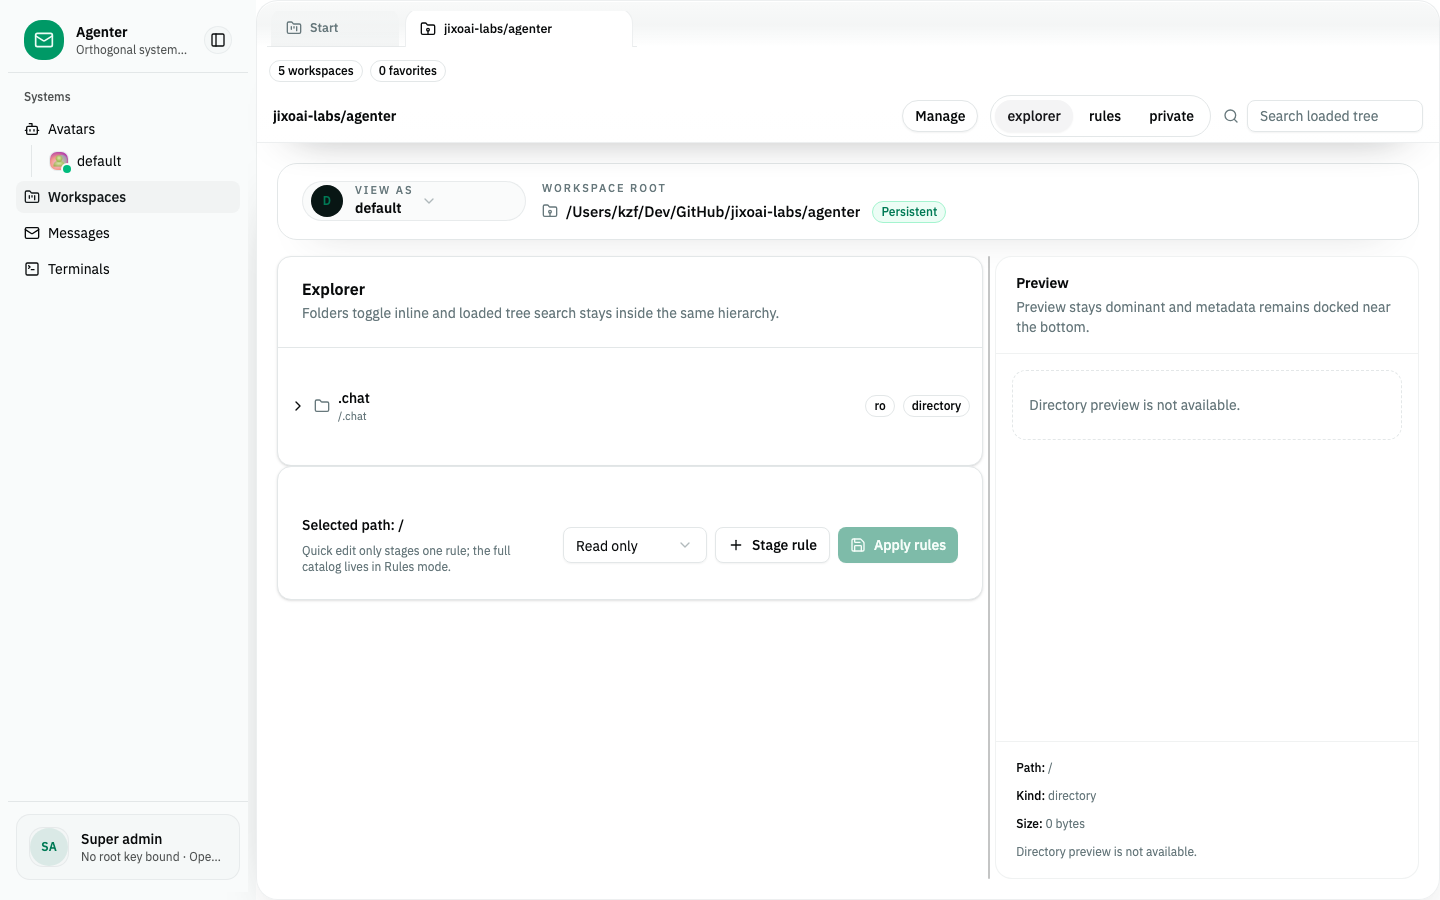
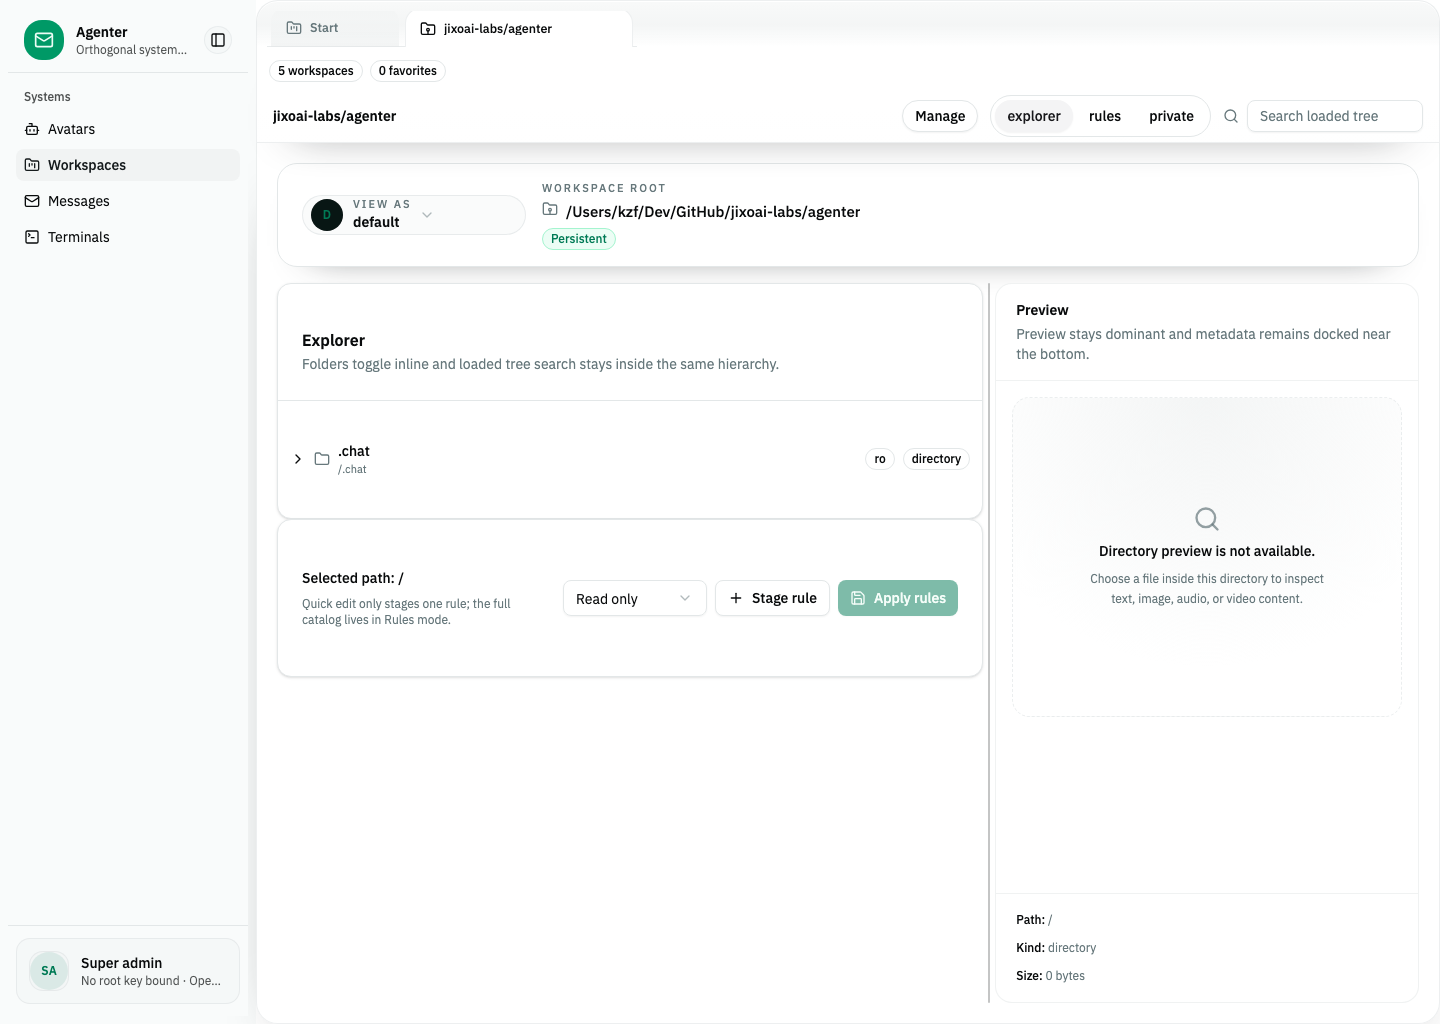
fix(webui): tighten workspace detail mobile density

diff --git a/packages/webui/src/lib/features/workspaces/workspaces-route.svelte b/packages/webui/src/lib/features/workspaces/workspaces-route.svelte
@@ -667,7 +667,7 @@
 </script>
 
 <WorkbenchPageToolbar>
-	<div class="flex h-full items-center justify-end gap-3 px-3 md:px-4">
+	<div class="flex h-full items-center justify-end gap-2.5 px-3 md:gap-3 md:px-4">
 		<div class="hidden min-w-0 flex-1 md:block">
 			<div class="truncate text-sm font-semibold">{selectedWorkspace ? describeCompactWorkspace(selectedWorkspace.path) : 'Workspaces'}</div>
 		</div>
@@ -751,7 +751,7 @@
 <div
 	class={cn(
 		'grid h-full grid-rows-[auto_minmax(0,1fr)] md:gap-4 md:p-5',
-		hideCompactContentHeader ? 'gap-0 p-0' : 'gap-4 p-4',
+		hideCompactContentHeader ? 'gap-0 p-0' : 'gap-3 px-3 pb-3 pt-3 md:gap-4 md:p-5',
 	)}
 	style="min-block-size: 0;"
 	data-testid="workspaces-route"
@@ -806,9 +806,9 @@
 	>
 		{#snippet main()}
 			<Card.Root class="h-full">
-				<Card.Header class="border-b">
+				<Card.Header class="gap-1 border-b px-4 py-4 pb-4 md:px-6 md:py-6 md:pb-6">
 					<Card.Title>{mode === 'rules' ? 'Rules' : mode === 'private' ? 'Private assets' : 'Explorer'}</Card.Title>
-					<Card.Description>
+					<Card.Description class="hidden max-w-[32rem] leading-6 md:block">
 						{#if mode === 'rules'}
 							Rule order maps directly to runtime grant priority for the selected avatar lens.
 						{:else if mode === 'private'}
@@ -893,7 +893,7 @@
 
 		{#snippet bottom()}
 			<Card.Root>
-				<Card.Content class="grid gap-4 pt-6 lg:grid-cols-[minmax(0,1fr)_auto] lg:items-center">
+				<Card.Content class="grid gap-3 px-4 pb-4 pt-4 md:gap-4 md:px-6 md:pb-6 md:pt-6 lg:grid-cols-[minmax(0,1fr)_auto] lg:items-center">
 					{#if mode === 'rules'}
 						<div class="grid gap-3 md:grid-cols-3">
 							<Input
@@ -981,19 +981,19 @@
 							{/if}
 						</div>
 					{:else}
-						<div class="grid gap-2.5 md:hidden">
-							<div class="grid gap-0.5">
-								<div class="truncate text-sm font-medium">
+						<div class="grid gap-2 md:hidden">
+							<div class="min-w-0 truncate text-sm font-medium" title={selectedExplorerPath ?? ''}>
 									{selectedExplorerPath ?? 'Select one path to stage a quick rule.'}
-								</div>
-								<div class="text-[11px] leading-5 text-muted-foreground">
-									Quick rule staging for the current tree selection.
-								</div>
 							</div>
 							<div class="grid grid-cols-[minmax(0,1fr)_auto_auto] items-center gap-2">
-								<NativeSelect.NativeSelect bind:value={quickRuleMode} class="min-w-0">
-									<option value="ro">Read only</option>
-									<option value="rw">Read write</option>
+								<NativeSelect.NativeSelect
+									bind:value={quickRuleMode}
+									class="min-w-0"
+									aria-label="Quick rule access mode"
+									title={quickRuleMode === 'ro' ? 'Read only' : 'Read write'}
+								>
+									<option value="ro">RO</option>
+									<option value="rw">RW</option>
 								</NativeSelect.NativeSelect>
 								<Button variant="outline" size="sm" onclick={stageQuickRule}>
 									<PlusIcon class="size-4" />

diff --git a/packages/webui/src/lib/features/workspaces/workspace-content-header.svelte b/packages/webui/src/lib/features/workspaces/workspace-content-header.svelte
@@ -52,10 +52,10 @@
 </script>
 
 <section
-	class="min-w-0 w-full rounded-[1.05rem] border bg-card/70 px-3 py-3 shadow-[0_18px_38px_-36px_color-mix(in_srgb,var(--foreground),transparent_18%)] md:rounded-[1.25rem] md:px-6 md:py-4"
+	class="min-w-0 w-full rounded-[0.95rem] border bg-card/70 px-3 py-2.5 shadow-[0_18px_38px_-36px_color-mix(in_srgb,var(--foreground),transparent_18%)] md:rounded-[1.25rem] md:px-6 md:py-4"
 	data-testid="workspace-content-header"
 >
-	<div class="flex min-w-0 flex-col gap-3 md:flex-row md:items-center md:justify-between md:gap-4">
+	<div class="flex min-w-0 flex-col gap-2.5 md:flex-row md:items-center md:justify-between md:gap-4">
 		<Select.Root
 			type="single"
 			items={avatarItems}
@@ -66,13 +66,16 @@
 		>
 			<Select.Trigger
 				aria-label="View as"
-				class="h-auto min-h-10 w-full min-w-0 justify-start rounded-2xl border-border/80 bg-muted/35 px-2 py-2 shadow-none md:min-w-[14rem] md:w-auto md:rounded-full"
+				class="h-10 min-h-10 w-full min-w-0 justify-start rounded-[1rem] border-border/70 bg-muted/25 px-2.5 py-1.5 shadow-none md:h-auto md:min-w-[14rem] md:w-auto md:rounded-full md:border-border/80 md:bg-muted/35 md:px-2 md:py-2"
 				data-testid="workspace-avatar-select"
 			>
-				<div class="flex min-w-0 items-center gap-3">
-					<ProfileAvatar label={selectedAvatarEntry?.nickname ?? selectedAvatar} class="size-8 rounded-2xl border-0 bg-foreground text-background" />
+				<div class="flex min-w-0 items-center gap-2.5">
+					<ProfileAvatar
+						label={selectedAvatarEntry?.nickname ?? selectedAvatar}
+						class="size-7 rounded-[0.95rem] border-0 bg-foreground text-background md:size-8 md:rounded-2xl"
+					/>
 					<div class="grid min-w-0 text-left leading-tight">
-						<span class="text-[11px] font-medium uppercase tracking-[0.18em] text-muted-foreground">View as</span>
+						<span class="hidden text-[11px] font-medium uppercase tracking-[0.18em] text-muted-foreground md:block">View as</span>
 						<span class="truncate text-sm font-semibold text-foreground">
 							{selectedAvatarEntry?.nickname ?? selectedAvatar}
 						</span>
@@ -88,13 +91,14 @@
 
 		<div class="min-w-0 flex-1">
 			<div class="text-[10px] font-medium uppercase tracking-[0.18em] text-muted-foreground md:text-[11px]">Workspace root</div>
-			<div class="mt-1.5 grid min-w-0 gap-2">
+			<div class="mt-1 grid min-w-0 gap-1.5">
 				<div class="flex min-w-0 items-start gap-2">
 					<FolderRootIcon class="size-4 shrink-0 text-muted-foreground" />
 					<div class="min-w-0">
-						<div class="truncate text-sm font-semibold text-foreground md:hidden">{objectiveCompactLabel}</div>
-						<div class="truncate text-sm font-medium text-foreground md:hidden">{objectiveLabel}</div>
-						<div class="hidden truncate text-sm font-medium text-foreground md:block md:text-[15px]">{objectiveLabel}</div>
+						<div class="truncate text-sm font-semibold text-foreground md:hidden" title={objectiveLabel}>{objectiveCompactLabel}</div>
+						<div class="hidden truncate text-sm font-medium text-foreground md:block md:text-[15px]" title={objectiveLabel}>
+							{objectiveLabel}
+						</div>
 					</div>
 				</div>
 				<div class="flex flex-wrap items-center gap-1.5 md:gap-2">

diff --git a/packages/webui/src/lib/features/workspaces/workspace-content-header-contract.spec.ts b/packages/webui/src/lib/features/workspaces/workspace-content-header-contract.spec.ts
@@ -9,14 +9,16 @@ const workspaceContentHeaderSource = readFileSync(
 );
 
 describe("Feature: Workspace content header mobile density contract", () => {
-  test("Scenario: Given a narrow workspace shell When reading the header source Then the mobile layout keeps one compact label plus the full path as secondary text", () => {
+  test("Scenario: Given a narrow workspace shell When reading the header source Then the mobile layout keeps one compact workspace label while the full path moves to the title affordance", () => {
     expect(workspaceContentHeaderSource).toContain("describeCompactWorkspace");
     expect(workspaceContentHeaderSource).toContain("objectiveCompactLabel");
+    expect(workspaceContentHeaderSource).toContain('title={objectiveLabel}');
     expect(workspaceContentHeaderSource).toContain("md:hidden");
+    expect(workspaceContentHeaderSource).toContain("hidden truncate text-sm font-medium text-foreground md:block");
   });
 
   test("Scenario: Given the mobile header must not widen the route When reading the source Then the outer surface and avatar trigger both opt into shrinking", () => {
     expect(workspaceContentHeaderSource).toContain("min-w-0 w-full");
-    expect(workspaceContentHeaderSource).toContain("class=\"h-auto min-h-10 w-full min-w-0");
+    expect(workspaceContentHeaderSource).toContain("class=\"h-10 min-h-10 w-full min-w-0");
   });
 });

diff --git a/packages/webui/src/lib/features/workspaces/workspaces-route-contract.spec.ts b/packages/webui/src/lib/features/workspaces/workspaces-route-contract.spec.ts
@@ -37,8 +37,10 @@ describe("Feature: Workspaces route search and rules contract", () => {
   });
 
   test("Scenario: Given explorer quick actions stay in the bottom area When reading the route source Then mobile switches to a denser action dock instead of repeating the desktop card", () => {
-    expect(workspacesRouteSource).toContain("grid gap-2.5 md:hidden");
-    expect(workspacesRouteSource).toContain("Quick rule staging for the current tree selection.");
+    expect(workspacesRouteSource).toContain("grid gap-2 md:hidden");
+    expect(workspacesRouteSource).toContain("title={selectedExplorerPath ?? ''}");
+    expect(workspacesRouteSource).toContain('aria-label="Quick rule access mode"');
+    expect(workspacesRouteSource).toContain('title={quickRuleMode === \'ro\' ? \'Read only\' : \'Read write\'}');
     expect(workspacesRouteSource).toContain("Stage");
     expect(workspacesRouteSource).toContain("Apply");
     expect(workspacesRouteSource).toContain("grid-cols-[minmax(0,1fr)_auto_auto]");